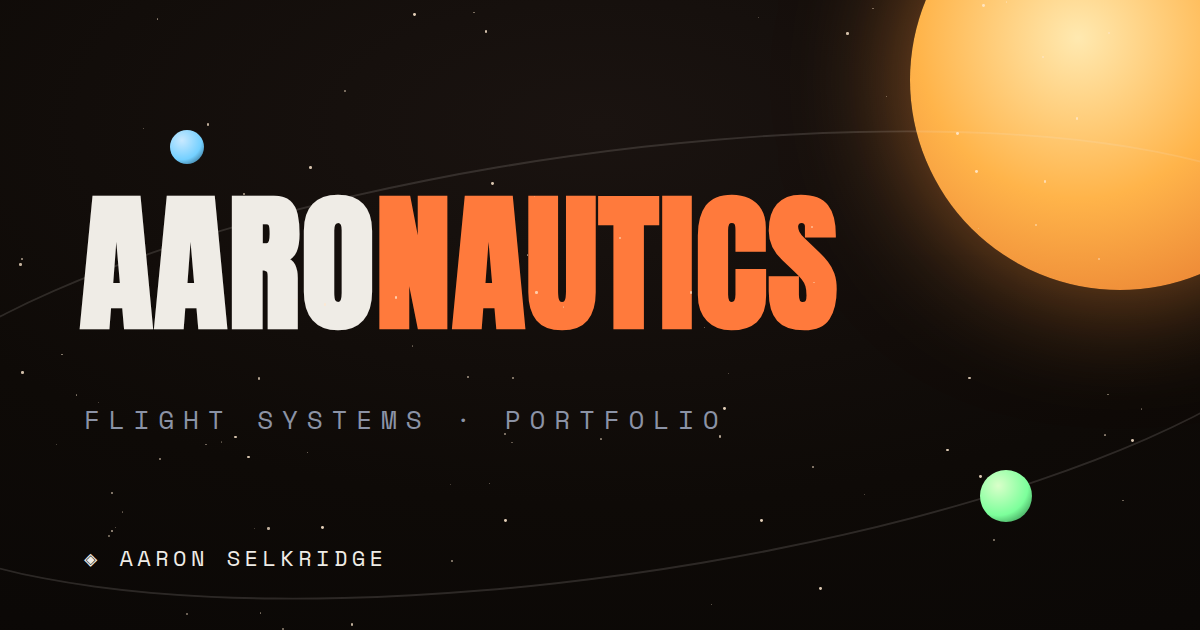
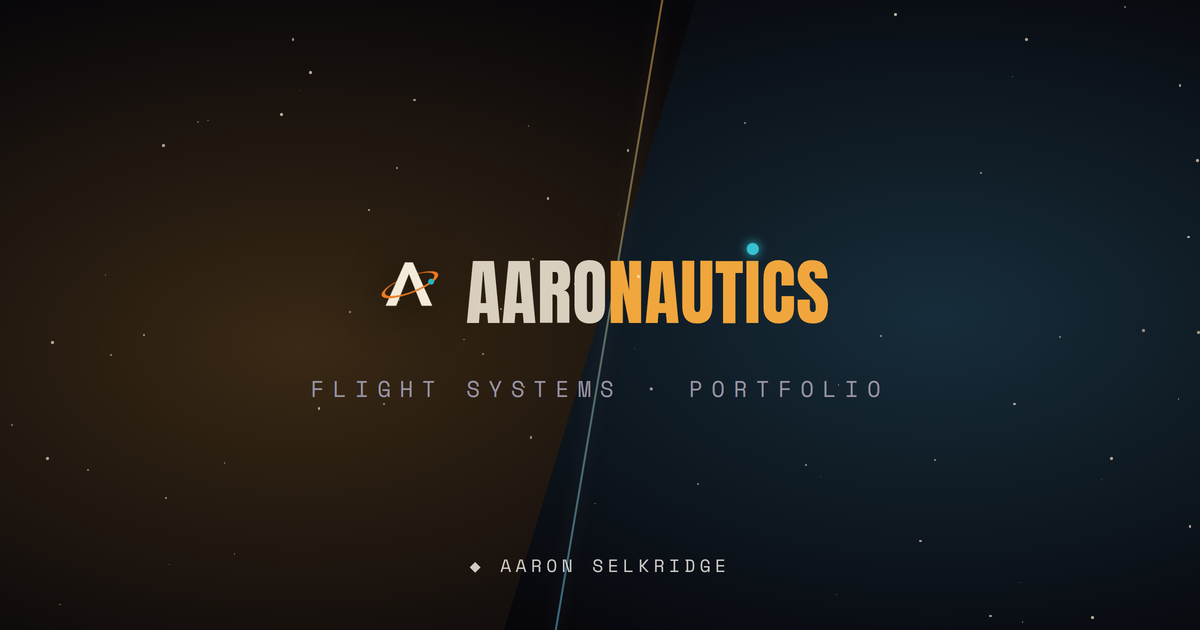
feat: branded boot loader (R1f) + real social share card (R1h)
Boot loader: replaces the plain "NAV SYSTEMS online" terminal text
with the real brand moment Aaron asked for — wordmark, the mark icon
with a teal dot continuously orbiting it as the loading motion, and
launch-prep words cycling underneath (ANALYZING SIGNAL... CHECKING
FUEL... PLOTTING TRAJECTORY... CALIBRATING NAV·COM... IGNITION...),
LLM-loader style. This is a deliberate, Aaron-authorized exception to
the mark-only-screens rule. Boot duration bumped 1.9s->2.7s to give
the cycle room to read; still click-to-skip.

Social share card: rebuilt og.png (and its og.html source template)
from a plain-text wordmark-on-stars image to the real lockup (actual
mark asset + wordmark, dot correctly over the dotless-i) on the same
diagonal warm/cool split the doorway uses, at a proper 1200x630
render (captured at 2x and downsampled for crisp text). Also rounds
out the meta tags: og:url, og:image:width/height, og:image:alt, and
the previously-missing twitter:title/description/image (was relying
on twitter:card alone falling back to og:image).

Verified: og:image URL already resolved correctly live (curl'd both
candidate paths — the existing docs/-prefixed one is right, this repo
isn't in GH Pages "docs folder" root mode), so only the artwork and
extra meta tags needed fixing, not the path. Boot verified headless
end to end (word cycle advances, dismisses on schedule, zero console
errors); OG card verified by measuring actual rendered layout (no
[…]

diff --git a/docs/orbit/index.html b/docs/orbit/index.html
@@ -13,8 +13,15 @@
 <meta property="og:title" content="Aaronautics — Orbit">
 <meta property="og:description" content="Aaron Selkridge's flight-systems portfolio. Fly the system, clear asteroids, land on worlds.">
 <meta property="og:type" content="website">
+<meta property="og:url" content="https://aselkridge.github.io/aarons-portfolio/docs/orbit/index.html">
 <meta property="og:image" content="https://aselkridge.github.io/aarons-portfolio/docs/assets/brand/og.png">
+<meta property="og:image:width" content="1200">
+<meta property="og:image:height" content="630">
+<meta property="og:image:alt" content="Aaronautics — Aaron Selkridge's flight-systems portfolio">
 <meta name="twitter:card" content="summary_large_image">
+<meta name="twitter:title" content="Aaronautics — Orbit">
+<meta name="twitter:description" content="Aaron Selkridge's flight-systems portfolio. Fly the system, clear asteroids, land on worlds.">
+<meta name="twitter:image" content="https://aselkridge.github.io/aarons-portfolio/docs/assets/brand/og.png">
 <link rel="stylesheet" href="../assets/fonts/fonts.css?v=4">
 <style>
 :root{
@@ -1392,14 +1399,26 @@ body.t-roci .bnr{background:rgba(6,16,28,.92);color:#eaf7ff;border:1px solid #4f
 body.t-roci .bnr .bk{color:#9affea}
 @keyframes bnrpulse{0%,100%{box-shadow:0 0 26px rgba(79,184,232,.4)}50%{box-shadow:0 0 42px rgba(79,184,232,.7)}}
 
-/* ───────── boot ───────── */
-#boot{position:fixed;inset:0;z-index:40;background:#050609;display:grid;place-items:center;transition:opacity .7s ease,visibility .7s}
+/* ───────── boot (R1f — branded loader, a deliberate exception to the
+   mark-only-screens rule: wordmark + mark together as a brand moment) ───────── */
+#boot{position:fixed;inset:0;z-index:40;background:radial-gradient(130% 100% at 50% 42%,#120d09 0%,#050609 70%);
+  display:grid;place-items:center;transition:opacity .7s ease,visibility .7s}
 #boot.gone{opacity:0;visibility:hidden;pointer-events:none}
-#boot .b{font-family:var(--mono);font-size:clamp(11px,1.4vw,14px);letter-spacing:.34em;color:var(--accent);text-transform:uppercase;text-align:center;line-height:2.4}
-#boot .b b{color:var(--ink);font-weight:400}
-#boot .big{font-family:var(--anton);font-size:clamp(2.4rem,9vw,6rem);letter-spacing:.02em;color:transparent;-webkit-text-stroke:1.4px rgba(239,236,230,.55);display:block;margin:.1em 0}
-#boot .cur{display:inline-block;width:.6em;height:1.05em;background:var(--accent);vertical-align:-12%;animation:bl 1s steps(1) infinite}
-@keyframes bl{50%{opacity:0}}
+.boot-inner{display:flex;flex-direction:column;align-items:center;gap:22px}
+.boot-word{font-family:var(--display);font-size:clamp(1.8rem,5vw,3.2rem);text-transform:uppercase;
+  line-height:.8;letter-spacing:.01em}
+.boot-mark-wrap{position:relative;width:clamp(64px,10vw,96px);height:clamp(64px,10vw,96px)}
+.boot-mark-wrap img{width:100%;height:100%;object-fit:contain;position:relative;z-index:1;
+  filter:drop-shadow(0 2px 14px rgba(0,0,0,.6))}
+.boot-orbit{position:absolute;inset:-16px;border-radius:50%;border:1px dashed rgba(53,193,209,.22);
+  animation:bootspin 2.4s linear infinite}
+.boot-orbit .dot{position:absolute;top:-4px;left:50%;width:8px;height:8px;margin-left:-4px;border-radius:50%;
+  background:#35c1d1;box-shadow:0 0 8px #35c1d1,0 0 18px rgba(53,193,209,.7)}
+@keyframes bootspin{from{transform:rotate(0deg)}to{transform:rotate(360deg)}}
+.boot-status{font-family:var(--mono);font-size:clamp(10px,1.3vw,12px);letter-spacing:.28em;
+  color:var(--dim);text-transform:uppercase;text-align:center;min-height:1.4em;
+  transition:opacity .18s}
+.boot-status.swap{opacity:0}
 
 @media (max-width:720px){
   #ach{top:120px;width:min(260px,72vw)}
@@ -1671,7 +1690,16 @@ body.t-roci .bnr .bk{color:#9affea}
   <div class="gate-flash"></div>
 </div>
 
-<div id="boot"><div class="b">◈ Aaronautics<span class="big">NAV SYSTEMS</span><b>online</b> <span class="cur"></span></div></div>
+<div id="boot">
+  <div class="boot-inner">
+    <div class="boot-word"><span class="wm-a">Aaro</span><span class="wm-n">naut<span class="pi">ı<span class="tit"></span></span>cs</span></div>
+    <div class="boot-mark-wrap">
+      <span class="boot-orbit"><i class="dot"></i></span>
+      <img src="../assets/brand/mark-transparent.png" alt="Aaronautics">
+    </div>
+    <div class="boot-status" id="boot-status">ANALYZING SIGNAL…</div>
+  </div>
+</div>
 
 <div id="banner" aria-live="assertive"></div>
 <div id="ach" aria-live="polite"></div>
@@ -1775,6 +1803,6 @@ body.t-roci .bnr .bk{color:#9affea}
 <script src="js/10-content-viewer.js?v=3"></script>
 <script src="js/07-environments.js?v=19"></script>
 <script src="js/08-ui.js?v=27"></script>
-<script src="js/09-main.js?v=13"></script>
+<script src="js/09-main.js?v=14"></script>
 </body>
 </html>

diff --git a/docs/assets/brand/og.html b/docs/assets/brand/og.html
@@ -2,28 +2,41 @@
 <style>
 @font-face{font-family:'Anton';src:url('../fonts/anton-400.woff2') format('woff2')}
 @font-face{font-family:'Space Mono';src:url('../fonts/space-mono-400.woff2') format('woff2')}
-body{margin:0;width:1200px;height:630px;overflow:hidden;position:relative;
- background:radial-gradient(130% 120% at 50% 20%,#1a1310 0%,#0e0a07 50%,#080605 100%);
+*{box-sizing:border-box}
+body{margin:0;width:1200px;height:630px;overflow:hidden;position:relative;background:#07060a;
  font-family:'Anton',sans-serif;color:#efece6}
 .star{position:absolute;background:#ffe9cf;border-radius:50%}
-.sun{position:absolute;right:-130px;top:-130px;width:420px;height:420px;border-radius:50%;
- background:radial-gradient(circle at 40% 40%,#ffe9b0,#ffb44a 45%,#e06a28 100%);
- box-shadow:0 0 120px rgba(255,150,60,.55)}
-.orbit{position:absolute;left:50%;top:58%;width:1500px;height:420px;border:2px solid rgba(239,236,230,.14);
- border-radius:50%;transform:translate(-50%,-50%) rotate(-8deg)}
-.p{position:absolute;border-radius:50%}
-h1{position:absolute;left:80px;top:200px;margin:0;font-size:150px;letter-spacing:.01em;line-height:.85;text-transform:uppercase}
-h1 em{font-style:normal;color:#ff7a3c}
-.sub{position:absolute;left:84px;top:400px;font-family:'Space Mono',monospace;font-size:26px;
- letter-spacing:.34em;color:#8b93a6;text-transform:uppercase}
-.name{position:absolute;left:84px;bottom:56px;font-family:'Space Mono',monospace;font-size:22px;
- letter-spacing:.2em;color:#efece6;text-transform:uppercase}
+/* diagonal split — same 58%/42% seam as the doorway (index.html .gate-half) */
+.half{position:absolute;inset:0}
+.half.warm{clip-path:polygon(0 0,58% 0,42% 100%,0 100%);
+ background:radial-gradient(80% 90% at 25% 55%,rgba(240,166,60,.22),transparent 70%)}
+.half.cool{clip-path:polygon(58% 0,100% 0,100% 100%,42% 100%);
+ background:radial-gradient(80% 90% at 78% 50%,rgba(79,184,232,.22),transparent 70%)}
+.seam{position:absolute;top:-8%;left:calc(50% + 8px);width:2px;height:116%;
+ transform:rotate(9.6deg);background:linear-gradient(180deg,rgba(240,166,60,.55),rgba(79,184,232,.55));
+ box-shadow:0 0 18px rgba(200,180,150,.25)}
+
+.lockup{position:absolute;left:50%;top:246px;transform:translateX(-50%);
+ display:flex;align-items:flex-end;gap:18px;white-space:nowrap}
+.lockup img{height:78px;width:78px;object-fit:contain;filter:drop-shadow(0 4px 20px rgba(0,0,0,.6));flex:none}
+.wordmark{font-size:72px;text-transform:uppercase;line-height:.8;letter-spacing:.01em;margin-bottom:2px;white-space:nowrap}
+.wm-a{color:#d8cfbe}
+.wm-n{color:#f0a63c}
+.pi{position:relative;display:inline-block}
+.pi .dot{position:absolute;left:50%;top:-.3em;transform:translateX(-50%);width:.17em;height:.17em;
+ border-radius:50%;background:#35c1d1;box-shadow:0 0 10px #35c1d1}
+
+.sub{position:absolute;left:50%;top:372px;transform:translateX(-50%);text-align:center;
+ font-family:'Space Mono',monospace;font-size:22px;letter-spacing:.4em;color:#9a95a6;text-transform:uppercase}
+.name{position:absolute;left:50%;bottom:52px;transform:translateX(-50%);text-align:center;
+ font-family:'Space Mono',monospace;font-size:18px;letter-spacing:.24em;color:#efece6;text-transform:uppercase;opacity:.85}
 </style>
-<div class="sun"></div><div class="orbit"></div>
-<div class="p" style="left:170px;top:130px;width:34px;height:34px;background:radial-gradient(circle at 35% 30%,#c9e9ff,#74d0ff 60%,#1c4a66)"></div>
-<div class="p" style="left:980px;top:470px;width:52px;height:52px;background:radial-gradient(circle at 35% 30%,#d9ffc9,#7cff9b 60%,#1c6634)"></div>
-<h1>Aaro<em>nautics</em></h1>
+<div class="half warm"></div><div class="half cool"></div><div class="seam"></div>
+<div class="lockup">
+  <img src="mark-transparent.png" alt="">
+  <div class="wordmark"><span class="wm-a">Aaro</span><span class="wm-n">naut<span class="pi">ı<span class="dot"></span></span>cs</span></div>
+</div>
 <div class="sub">Flight Systems · Portfolio</div>
-<div class="name">◈ Aaron Selkridge</div>
-<script>for(let i=0;i<90;i++){const s=document.createElement('div');s.className='star';
-const z=Math.random();s.style.cssText+=`left:${Math.random()*1200}px;top:${Math.random()*630}px;width:${1+z*2}px;height:${1+z*2}px;opacity:${.3+z*.6}`;document.body.appendChild(s);}</script>
+<div class="name">◆ Aaron Selkridge</div>
+<script>for(let i=0;i<70;i++){const s=document.createElement('div');s.className='star';
+const z=Math.random();s.style.cssText+=`left:${Math.random()*1200}px;top:${Math.random()*630}px;width:${1+z*2}px;height:${1+z*2}px;opacity:${.25+z*.5}`;document.body.appendChild(s);}</script>

diff --git a/docs/orbit/js/09-main.js b/docs/orbit/js/09-main.js
@@ -261,8 +261,20 @@ requestAnimationFrame(loop);
 /* ══════════ RESIZE / BOOT / DEEP LINK ══════════ */
 addEventListener('resize', function(){ metrics(); sizeCanvases(); sizeOrbits(); sunMetrics(); initStars(); if(envScene) sizeEnv(); });
 var boot=$('boot');
-setTimeout(function(){ boot.classList.add('gone'); },1900);
-boot.addEventListener('click', function(){ boot.classList.add('gone'); });
+/* R1f — cycling launch-prep words, LLM-loader style. Swaps text with a
+   quick fade rather than a hard cut so it reads as "still working," not
+   a glitch. Interval is cleared the moment boot is dismissed (click or
+   timeout) so it can never keep ticking behind the scenes. */
+var BOOT_WORDS=['ANALYZING SIGNAL…','CHECKING FUEL…','PLOTTING TRAJECTORY…','CALIBRATING NAV·COM…','IGNITION…'];
+var bootStatus=$('boot-status'), bootWordI=0;
+var bootWordTimer=setInterval(function(){
+  bootWordI=(bootWordI+1)%BOOT_WORDS.length;
+  bootStatus.classList.add('swap');
+  setTimeout(function(){ bootStatus.textContent=BOOT_WORDS[bootWordI]; bootStatus.classList.remove('swap'); },180);
+},520);
+function dismissBoot(){ boot.classList.add('gone'); clearInterval(bootWordTimer); }
+setTimeout(dismissBoot,2700);
+boot.addEventListener('click', dismissBoot);
 addEventListener('load', function(){
   Music.init();
   var hsh=location.hash.slice(1), s=ALL.filter(function(x){return x.id===hsh;})[0];
